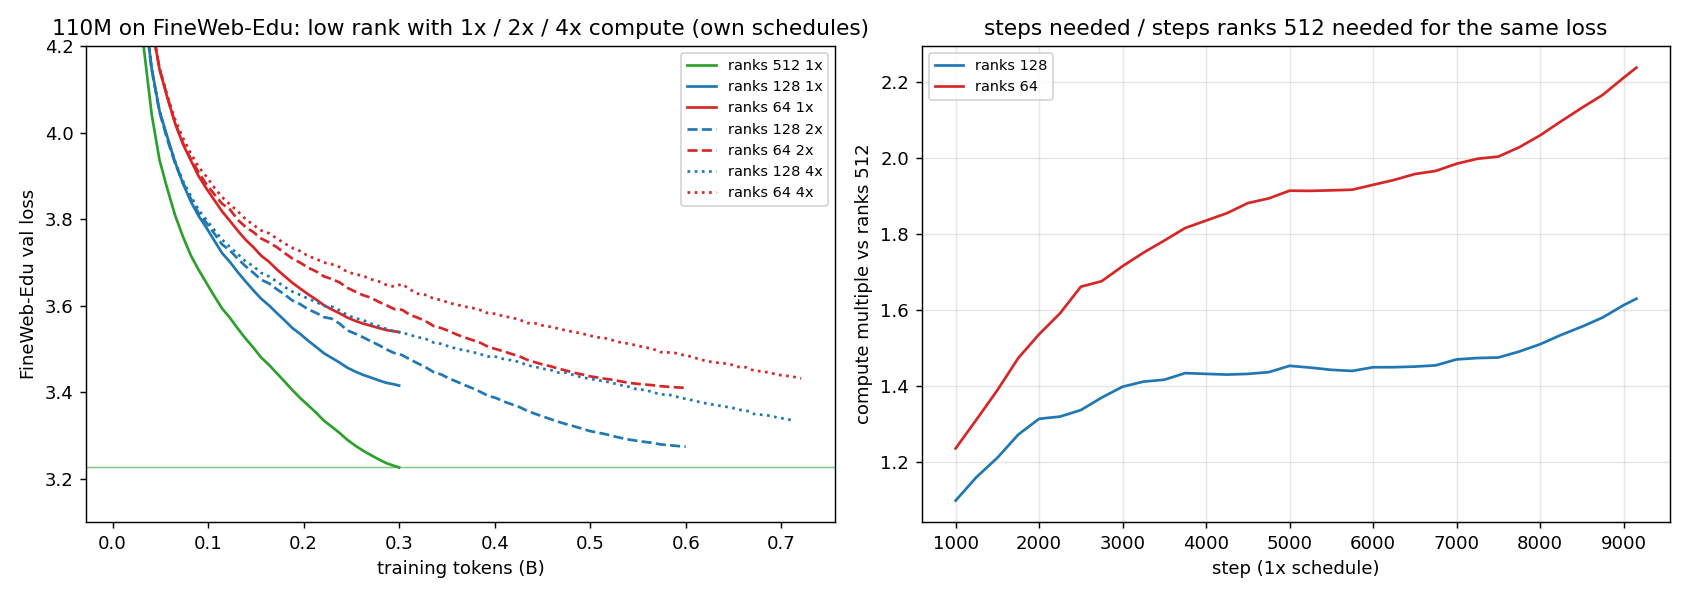
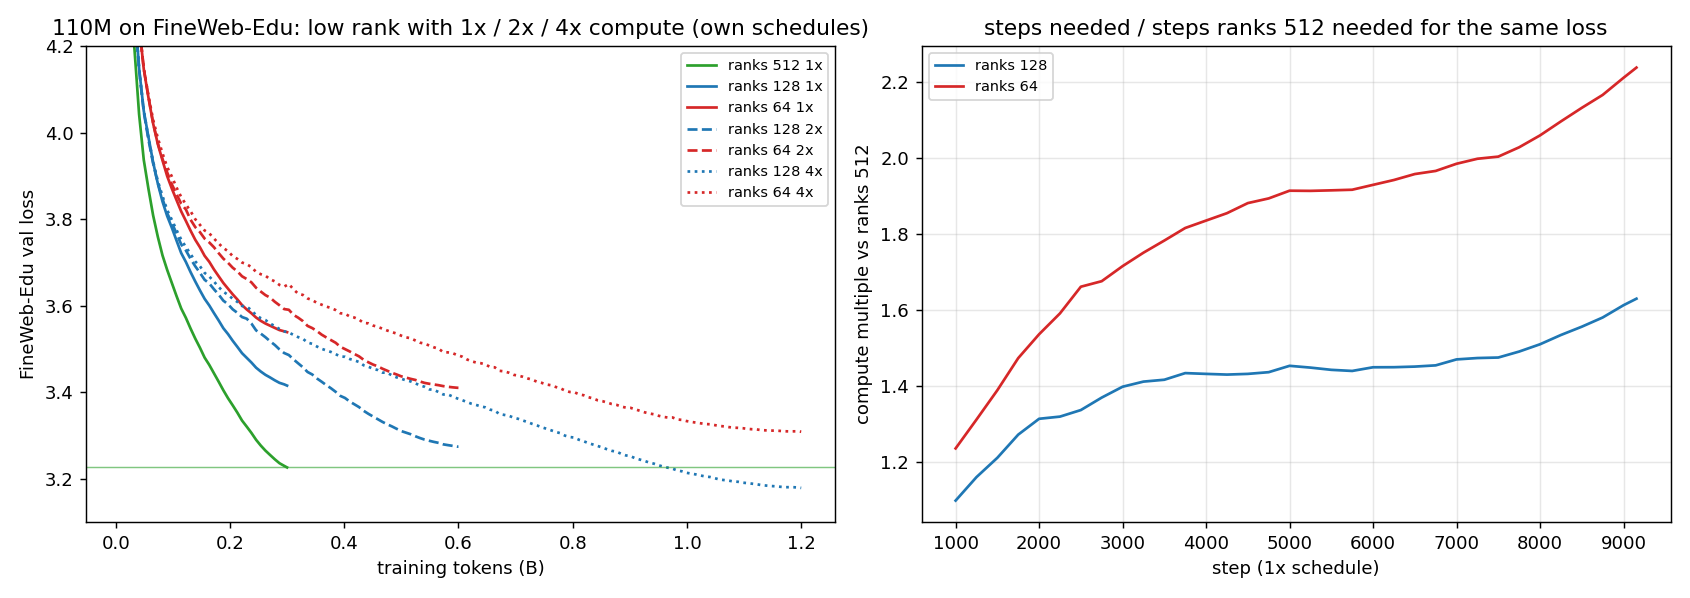
Capacity verdict: ranks 128 at 4x 3.1793 beats ranks 512 at 1x (~2.8x compute to match); ranks 64 ~8x

diff --git a/docs/RUN_INDEX.md b/docs/RUN_INDEX.md
@@ -35,7 +35,7 @@ val numbers of different seeds use different windows and differ by up to 0.06 fo
 | `ts512an05_spend0_s0` (lamprey, 3 Oct) | TTF without spending after a move (`--ts_spend 0`) | 2.7748 (+0.068 vs spend theta 2.7067) |
 | `ts512an05_kv128_s0` / `ts512an05_sharedV_s0` | k / v at rank 128 / shared basis | +0.023 / +0.047 (fixed windows); k, v / down stop moving |
 | `ts{128,64}an05_*` fixes | sketch / residual / theta 8 / theta 11 / lr 3e-3 / ranks by input width | +0.17 / -0.03 / +0.14 / +0.05 / -0.02 / 0.00 vs the same-rank baseline (2.8837 / 2.9928) |
-| `fwc_*` (running) | ranks 512 / 128 / 64 at 1x / 2x / 4x compute, FineWeb-Edu | capacity or direction? |
+| `fwc_*` | ranks 512 / 128 / 64 at 1x / 2x / 4x compute, FineWeb-Edu | ranks 512 1x 3.2265; ranks 128 3.4156 / 3.2747 / **3.1793**; ranks 64 3.5391 / 3.4105 / 3.3090: ranks 128 matches ranks 512 at ~2.8x compute, ranks 64 ~8x |
 | `w{110m,340m,1b,10b,15b}_r{64,256,512}` (15B running) | width sweep, batch 2, 1000 steps, shadows | top-64 energy share 0.57 / 0.54 / 0.53 / 0.58 at width 768 / 1024 / 2048 / 5120 (flat); 10B ranks 64 / 256 at 1000: 5.4370 / 5.4984; at batch 16 ranks 512 captures 0.96 / 0.91 / 0.77 of the energy at 110M / 340M / 1.3B |
 | `lean_mem.sh`, `b27_smoke.sh` | measured memory | 110M 0.38-0.63 GiB, 340M 0.68-1.35, 1.3B 1.61-2.97, 10B 12.3, 15B 17.0, 26.5B 14.1 (ranks 256) |
 
